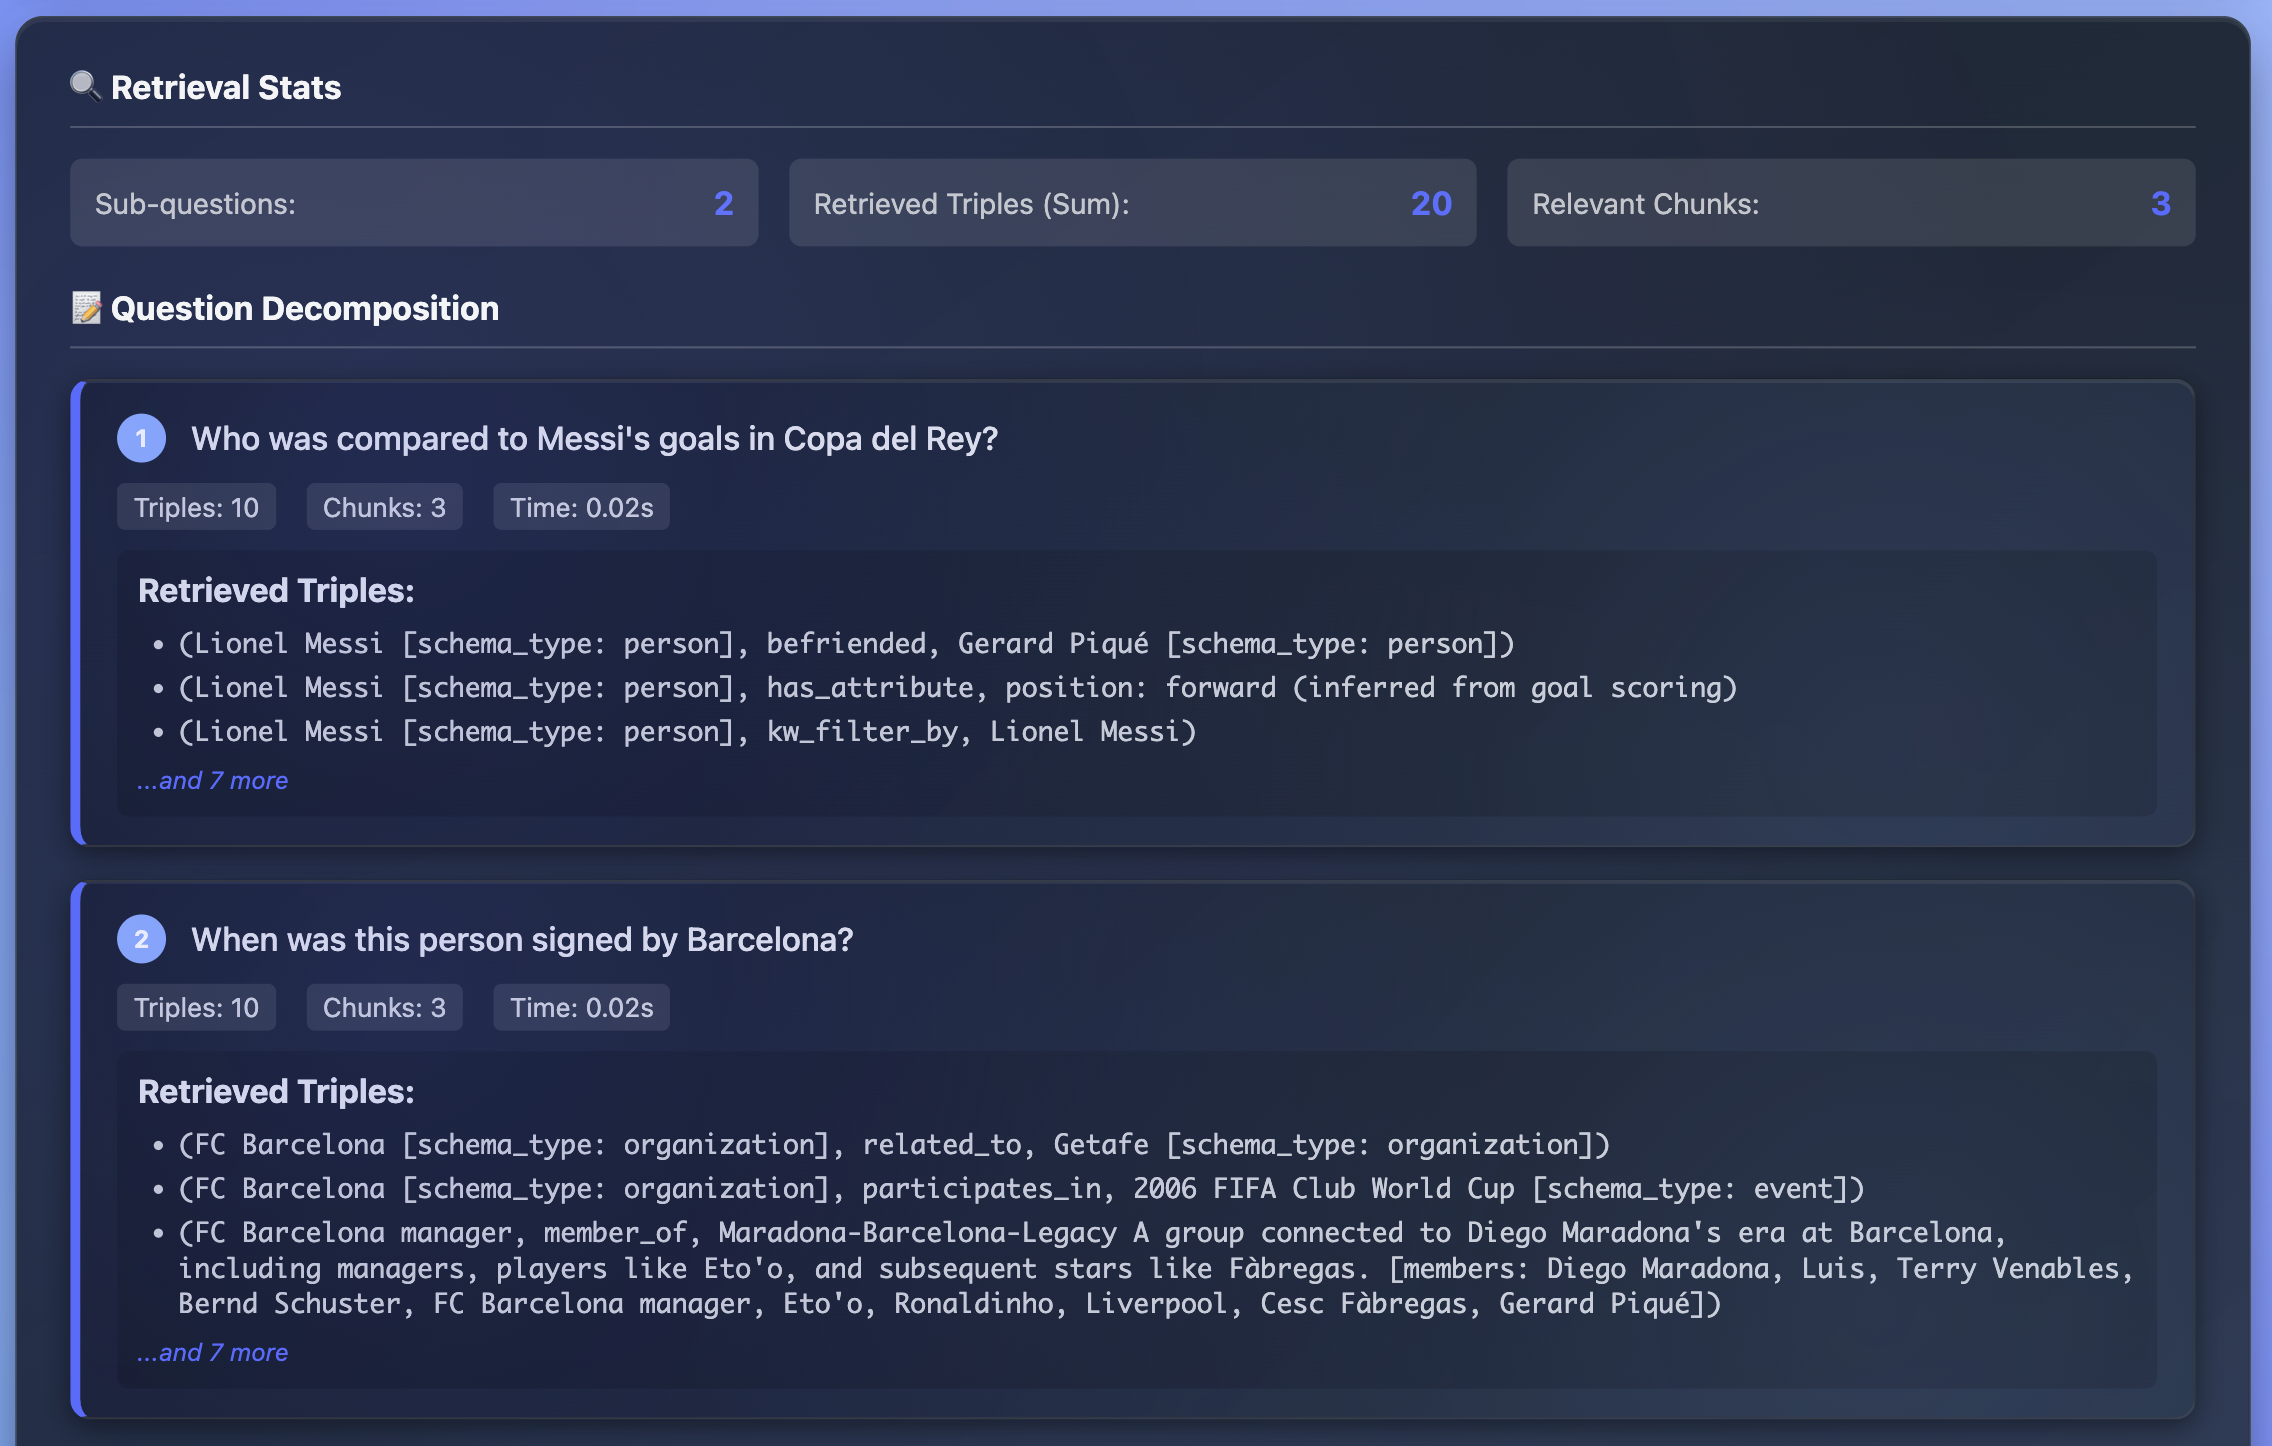
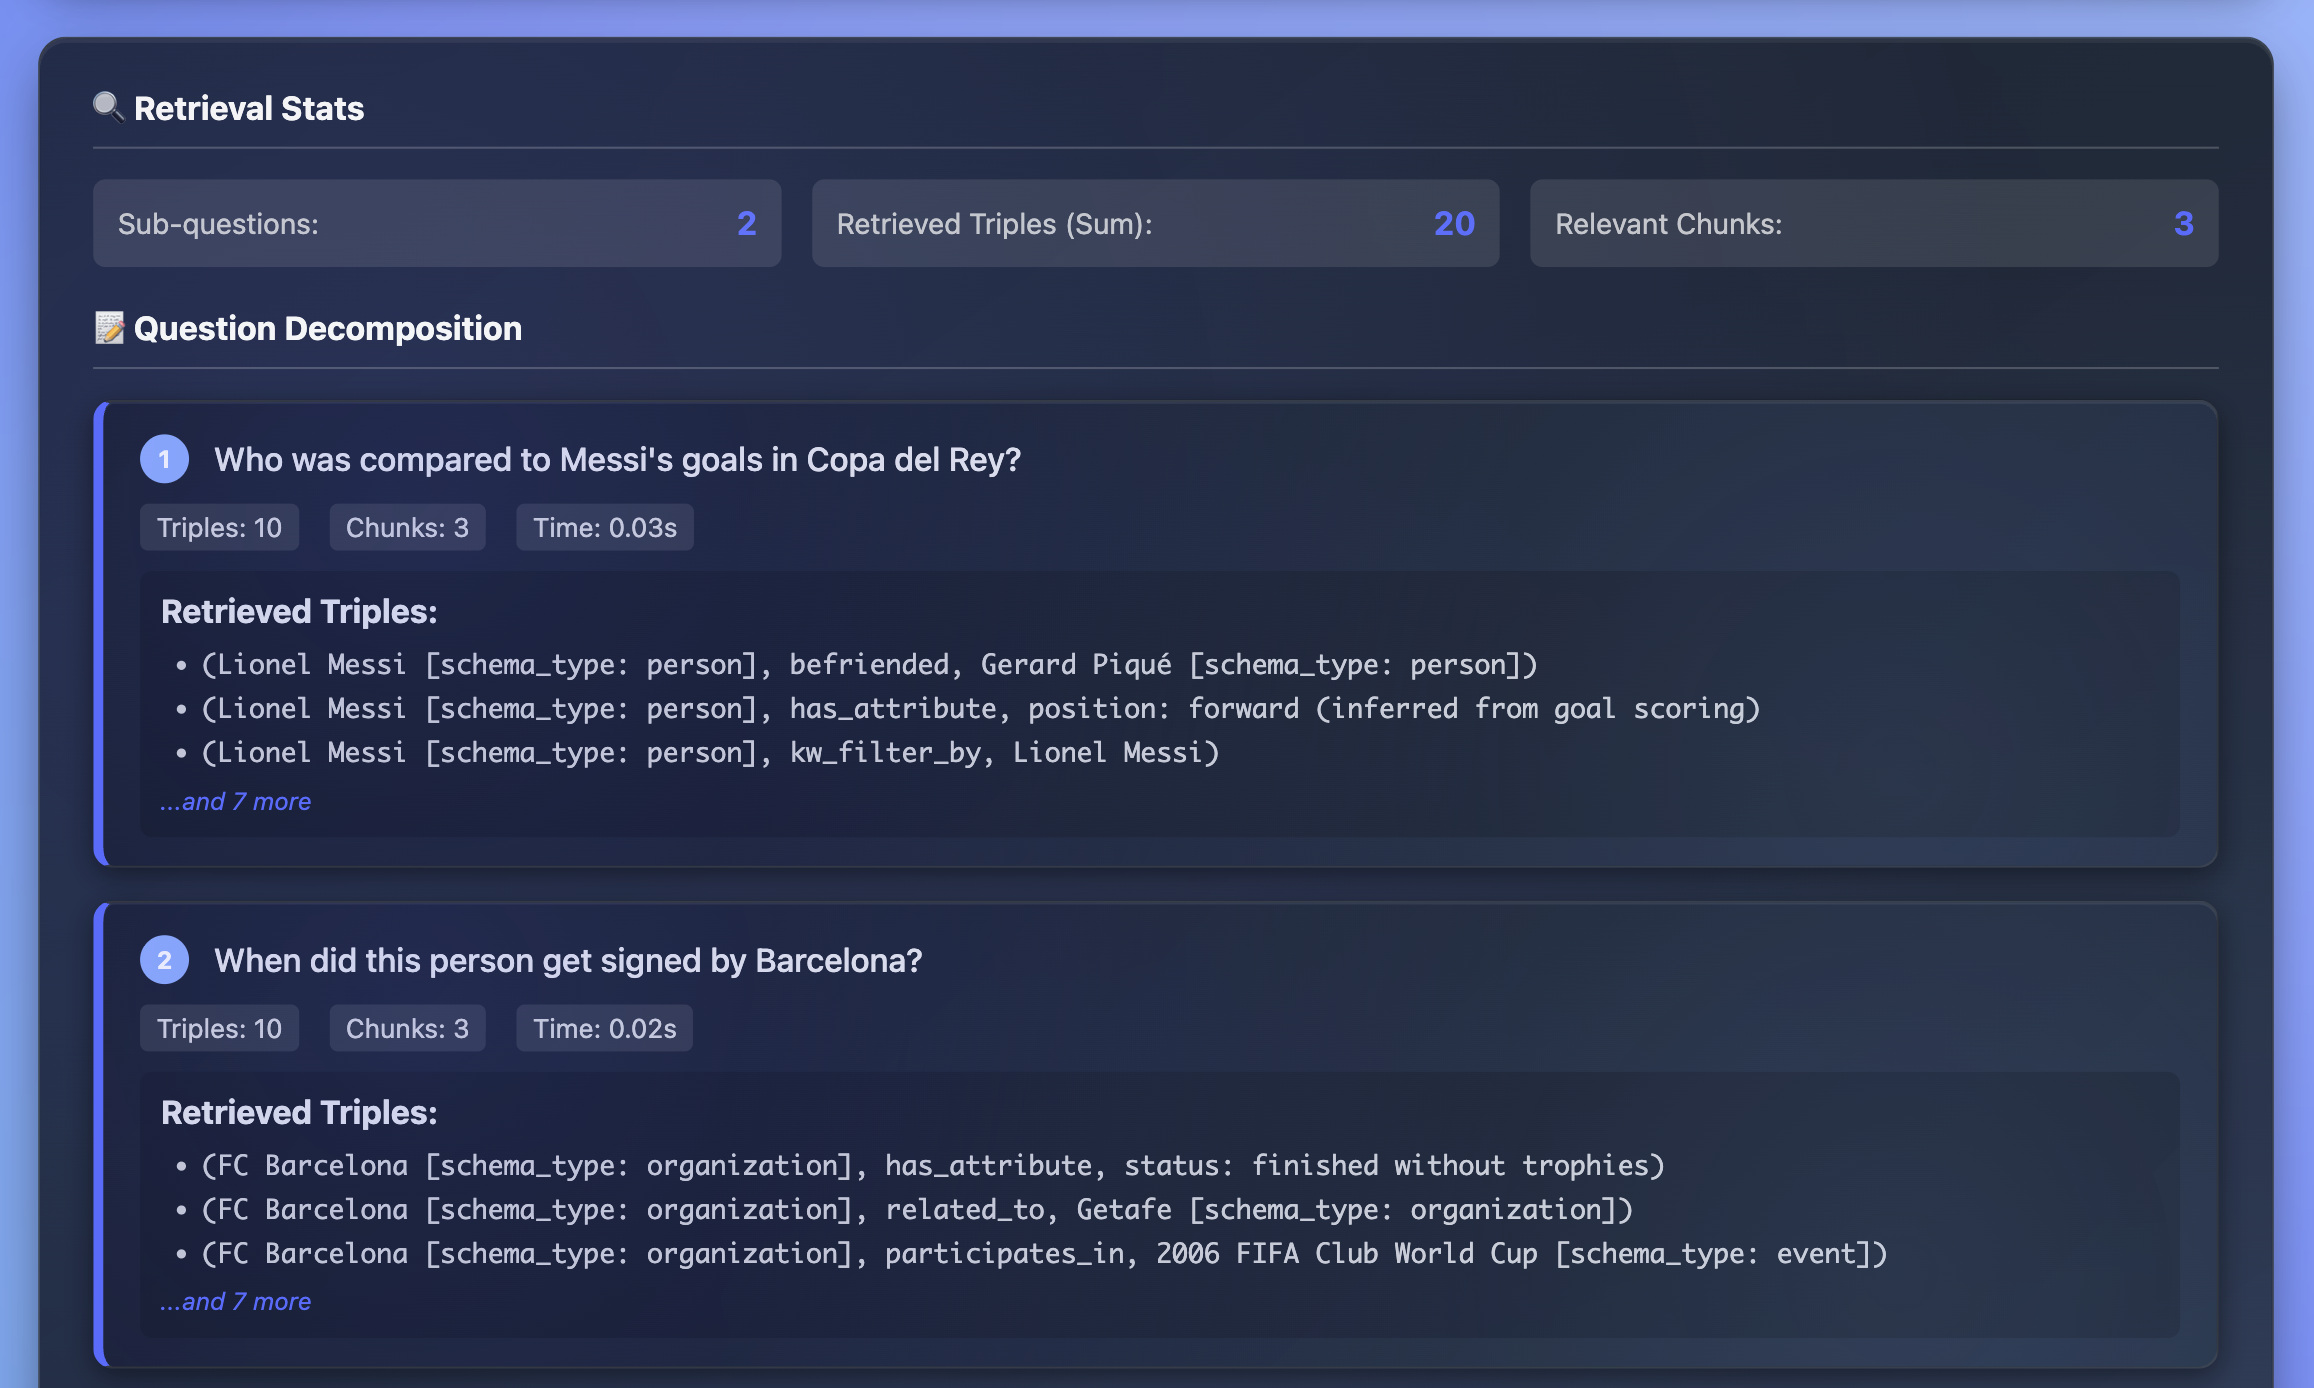
update frondend color

Changed region(s): [[0.0, 0.0, 1.0, 1.0], [0.3125, 0.1239, 0.5, 0.1859], [0.625, 0.1239, 0.7812, 0.1859]]

diff --git a/README.md b/README.md
@@ -38,8 +38,8 @@ A sketched overview of our proposed framework Youtu-GraphRAG.
 <div align="center">
 
 [//]: # (<img src="assets/dashboard_demo.png" alt="Dashboard" width="32%"/>)
-<img src="assets/graph_demo.png" alt="Graph Construction" width="46.9%"/>
-<img src="assets/retrieval_demo.png" alt="Retrieval" width="47.5%"/>
+<img src="assets/graph_demo.png" alt="Graph Construction" width="45.9%"/>
+<img src="assets/retrieval_demo.png" alt="Retrieval" width="49.4%"/>
 </div>
 
 <a id="contributions"></a>

diff --git a/README-CN.md b/README-CN.md
@@ -34,8 +34,8 @@ Youtu-GraphRAG框架概览
 ## 📲 交互式体验界面
 
 <div align="center">
-<img src="assets/graph_demo.png" alt="Graph Construction" width="46.9%"/>
-<img src="assets/retrieval_demo.png" alt="Retrieval" width="47.5%"/>
+<img src="assets/graph_demo.png" alt="Graph Construction" width="45.9%"/>
+<img src="assets/retrieval_demo.png" alt="Retrieval" width="49.4%"/>
 </div>
 
 
